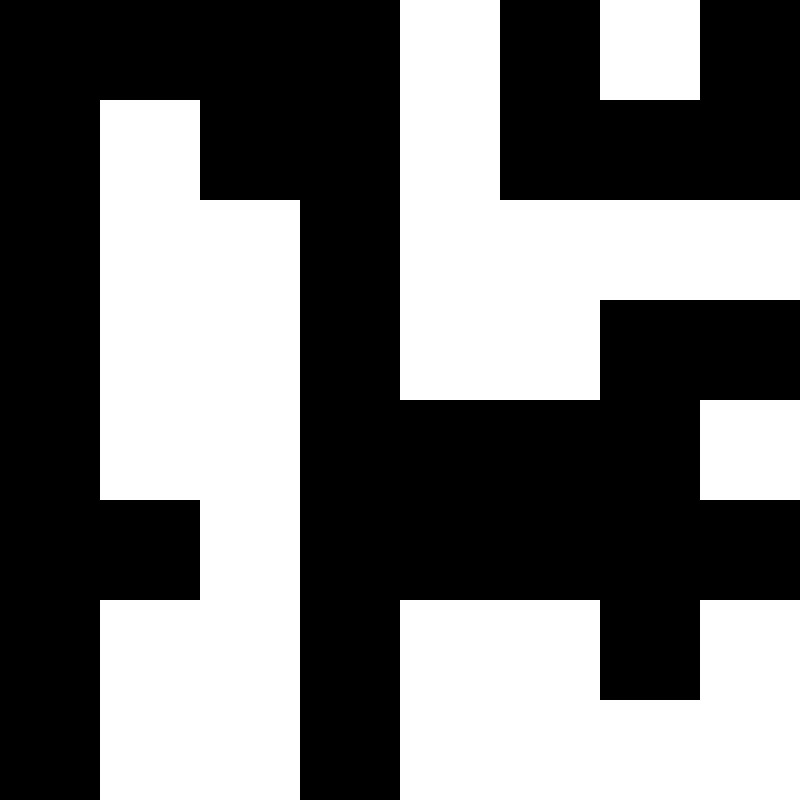
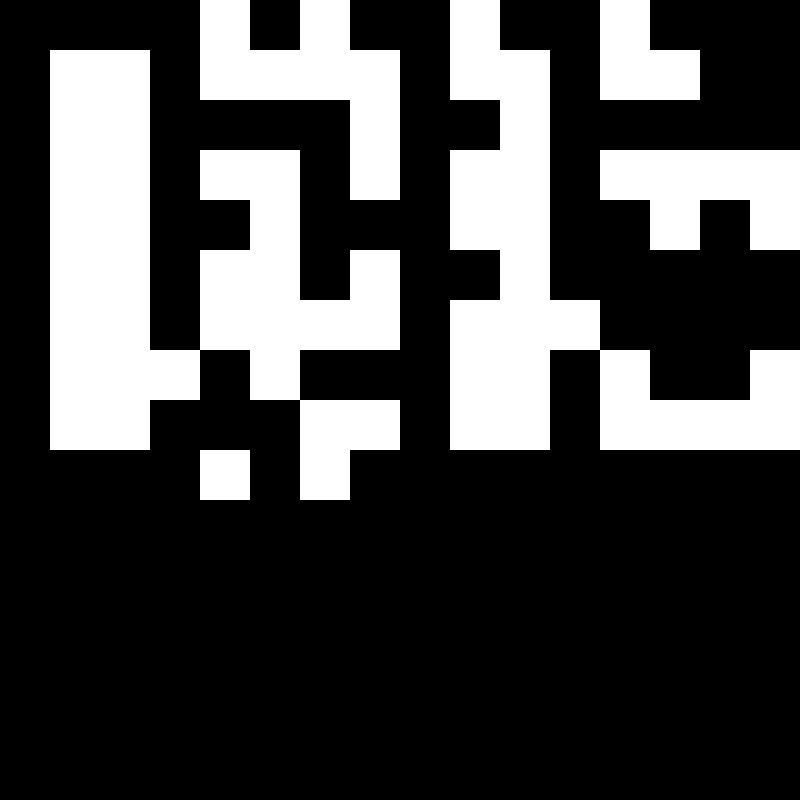
modificadores de comunes

diff --git a/tx/display.py b/tx/display.py
@@ -1,6 +1,6 @@
 import cv2
 
-def transmit_frames(frames, duration=500):
+def transmit_frames(frames, duration=300):
 
     cv2.namedWindow(
         "TX",
@@ -14,6 +14,7 @@ def transmit_frames(frames, duration=500):
     )
 
     for frame in frames:
+        #print("mostrando frame")
 
         cv2.imshow("TX", frame)
 

diff --git a/tx/transmitter.py b/tx/transmitter.py
@@ -1,12 +1,11 @@
 import os
-import cv2
+import cv2  #analisis de imagenes
 
 from common.utils import text_to_bits
 from common.config import BITS_PER_FRAME
 from tx.frame_builder import build_frame
 from tx.display import transmit_frames
 from tx.control_frames import sync_a, sync_b
-
 
 message = """
 Hola modem optico

diff --git a/common/config.py b/common/config.py
@@ -23,10 +23,10 @@ THRESHOLD = 127
 #version2
 FRAME_SIZE = 800
 
-GRID_ROWS = 8
-GRID_COLS = 8
+GRID_ROWS = 8 #16
+GRID_COLS = 8 #16
 
 CELL_SIZE = FRAME_SIZE // GRID_ROWS
 
-BITS_PER_FRAME = 64
-BYTES_PER_FRAME = 8
+BITS_PER_FRAME = 64   #256
+BYTES_PER_FRAME = 8    #32
